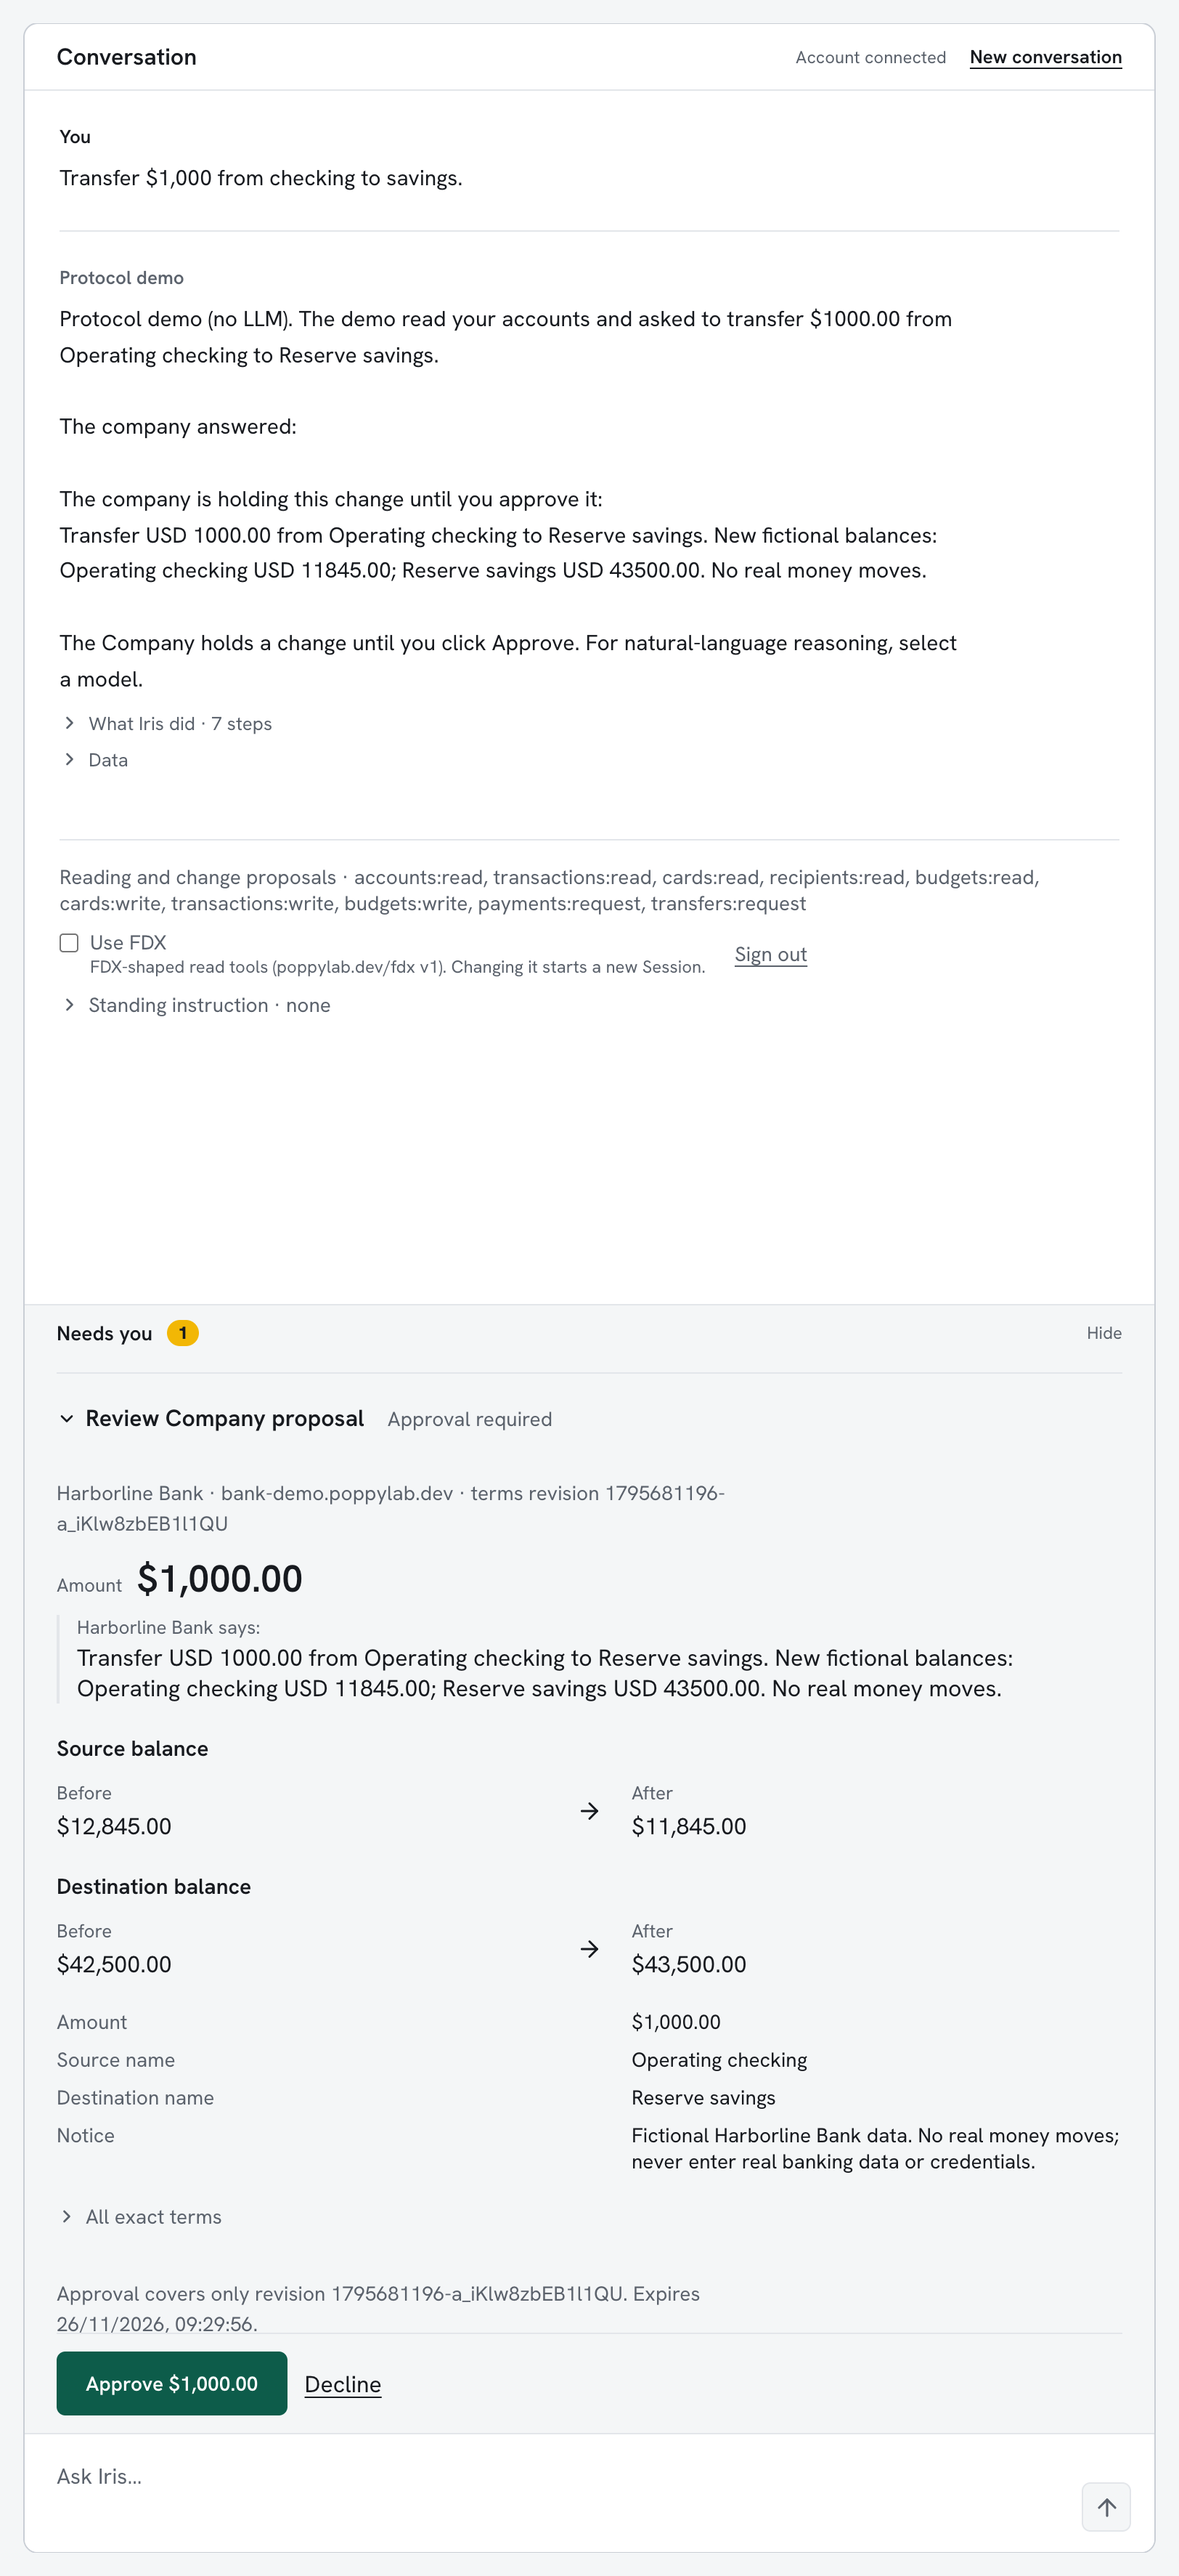
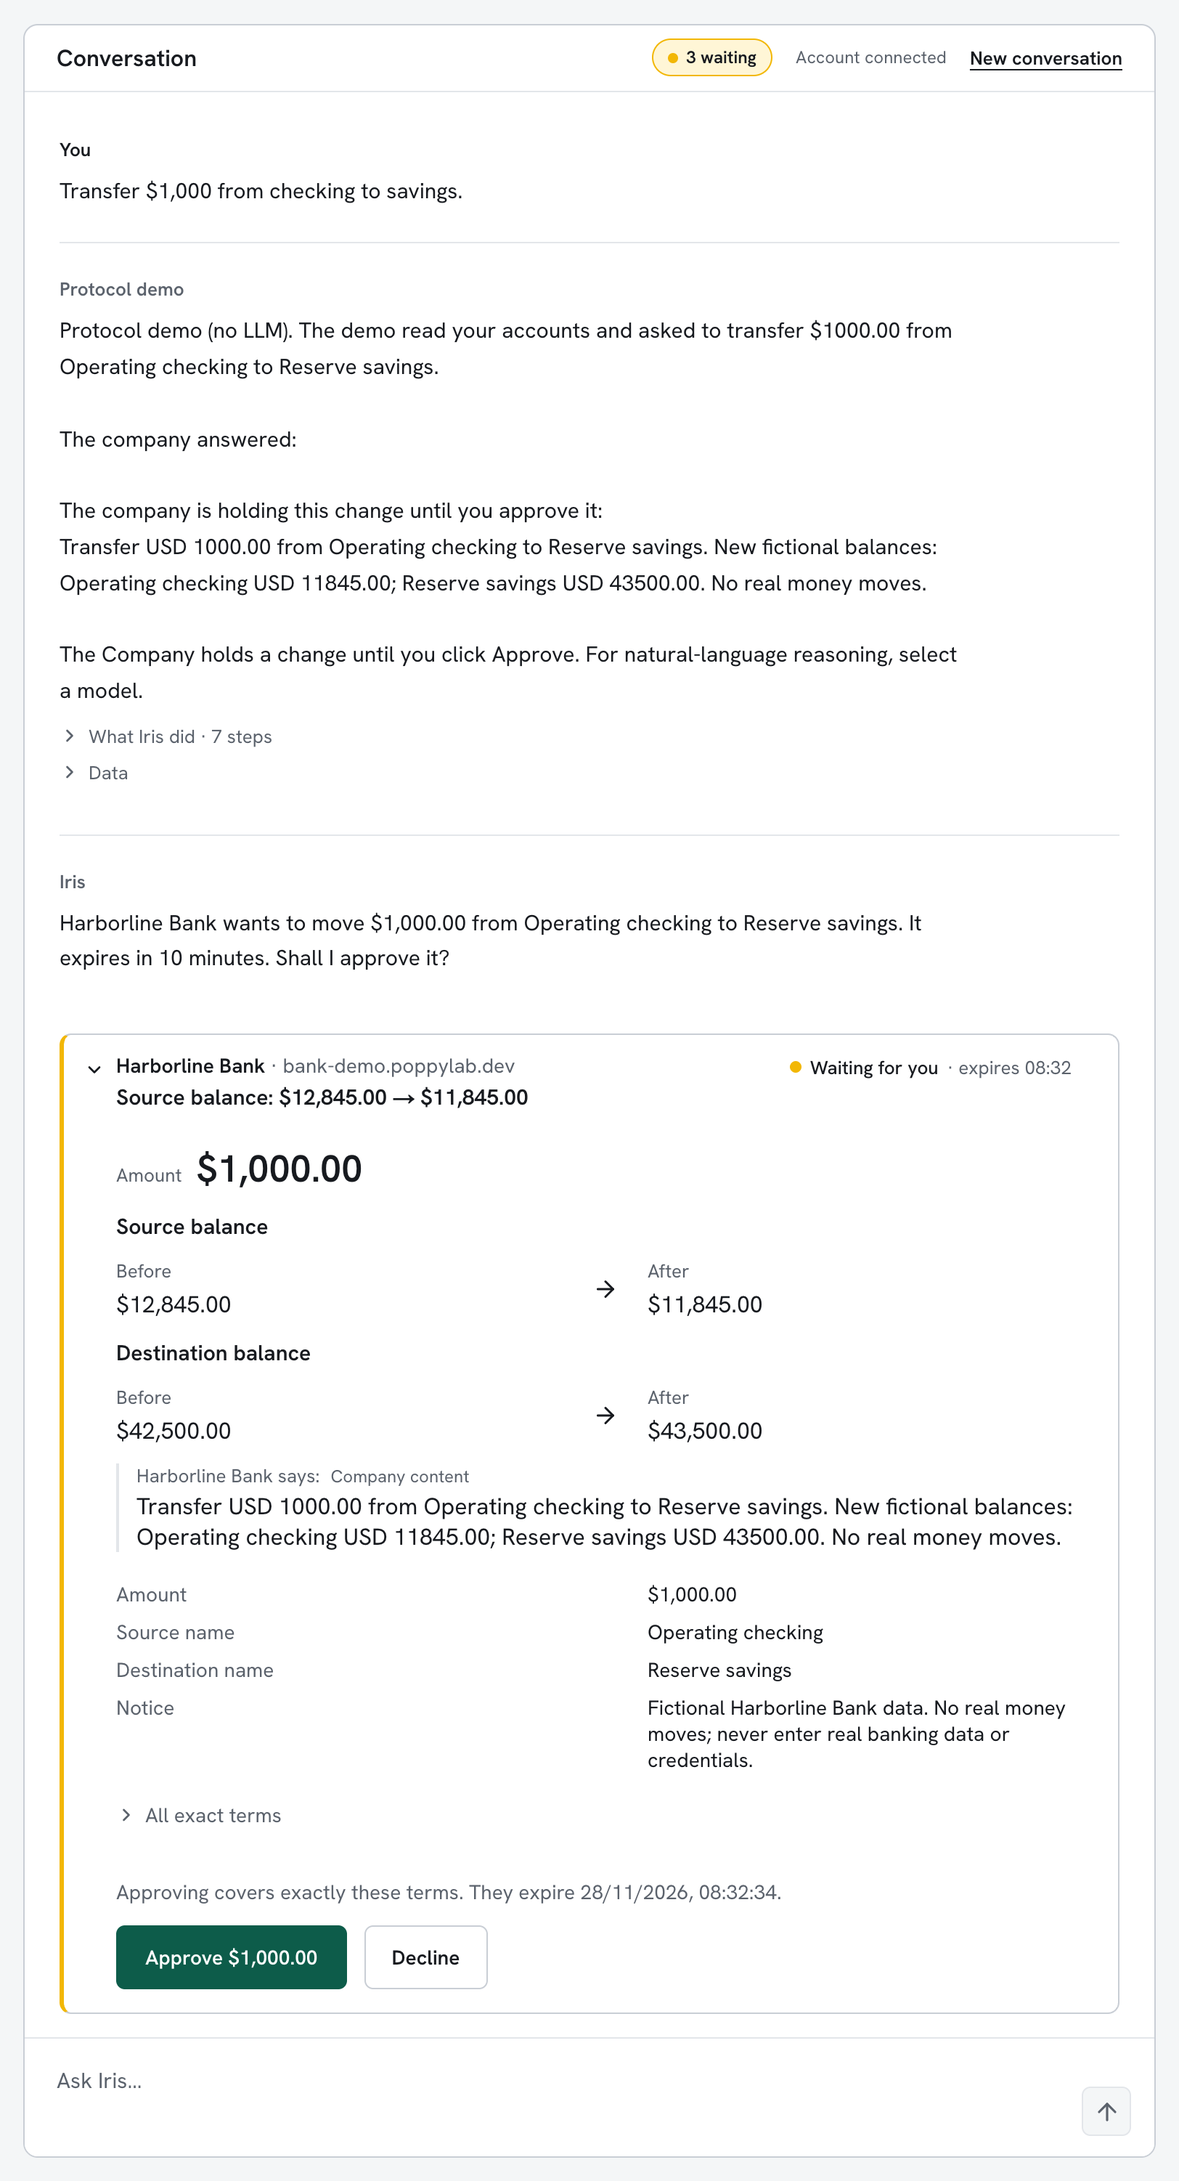
Show the proposal card and Iris's own voice in Moving money
Terms are a card where they arrived; Iris's questions, its confirmation, its which-one question with two proposals waiting, and the refusal it reports are quoted as the live lab writes them. Retaken on 28 November: 03, 04, 06, 08, 10, 11. The website images 01, 02 and 05 were compared and are unchanged; 07 and 09 were not compared.

diff --git a/docs/learn/how-it-works/moving-money.md b/docs/learn/how-it-works/moving-money.md
@@ -8,8 +8,8 @@ approved them. Later she asks for a payment her balance does not cover, and
 Harborline refuses it.
 
 This page follows those three requests screen by screen, on Iris's side and on
-Harborline's. Every screenshot is from the live lab, taken on
-26 November 2026. Harborline is fictional, and no real money exists or moves.
+Harborline's. Every screenshot is from the live lab at
+[poppylab.dev](https://poppylab.dev), taken on 26 and 28 November 2026. Harborline is fictional, and no real money exists or moves.
 
 ## Who does what
 
@@ -68,7 +68,7 @@ payments:request  transfers:request
 
 ### 3. Ask for the transfer
 
-![Iris has asked Harborline for the transfer, and a panel titled Needs you shows the amount, each balance before and after, and a button: Approve 1,000 dollars](../../../apps/playground/public/learn-media/how-it-works/moving-money/03-iris-proposes-the-transfer.webp "Harborline has moved nothing. It answered with terms that wait for Elena.")
+![Iris has asked Harborline for the transfer and asks whether to approve it. Below, a card from Harborline Bank reads Waiting for you, with the amount, each balance before and after, and a button: Approve 1,000 dollars](../../../apps/playground/public/learn-media/how-it-works/moving-money/03-iris-proposes-the-transfer.webp "Harborline has moved nothing. It answered with terms that wait for Elena.")
 
 Elena types "Transfer $1,000 from checking to savings." Iris reads her
 accounts, works out which two she means, and asks Harborline for that
@@ -76,10 +76,11 @@ transfer.
 
 Harborline does not make it. It answers that the transfer needs the customer's
 approval and sends back the terms it would apply, including the balance each
-account would have afterwards. Iris shows them in a panel called Needs you,
-with the amount first and each balance before and after. In the conversation
-Iris asks in its own words, from the terms: Harborline proposes a transfer of
-1,000 dollars from Operating checking to Reserve savings, approve it?
+account would have afterwards. Iris shows them as a card in the
+conversation, where the proposal arrived, with the amount first and each
+balance before and after. Iris asks in its own words, from the terms:
+"Harborline Bank wants to move $1,000.00 from Operating checking to Reserve
+savings. It expires in 10 minutes. Shall I approve it?"
 
 The lab runs here in demo mode, which answers its guided examples without an
 AI model, so the answer is the company's data set out as plain lines. With a model connected Iris would
@@ -129,14 +130,14 @@ Harborline's answer to the request, as Iris received it:
 
 ### 4. Read what you are approving
 
-![The approval panel: the amount in large type, each balance before and after, both accounts by name, under All exact terms the same facts as data, and at the foot the buttons Approve 1,000 dollars and Decline](../../../apps/playground/public/learn-media/how-it-works/moving-money/04-exact-terms.webp "The terms come from Harborline. Iris shows them and adds nothing of its own.")
+![The proposal card: the amount in large type, each balance before and after, both accounts by name, under All exact terms the same facts as data, and at the foot the buttons Approve 1,000 dollars and Decline](../../../apps/playground/public/learn-media/how-it-works/moving-money/04-exact-terms.webp "The terms come from Harborline. Iris shows them and adds nothing of its own.")
 
-The panel shows what Harborline will do if Elena approves, and it leads with
+The card shows what Harborline will do if Elena approves, and it leads with
 the amount. The paragraph that begins "Harborline Bank says" is the bank's own
 description, and the rows below it give each balance before and after and the
 two accounts by name. Harborline worked out the balances. Iris asked only for
-an amount and two accounts. The Approve and Decline buttons stay at the foot
-of the panel while the terms scroll above them.
+an amount and two accounts. The Approve and Decline buttons are at the foot
+of the card, under the terms.
 
 Under All exact terms are the same facts as data, with the amount in cents.
 The line called `idempotency_key` is a label Iris made up for this one
@@ -161,9 +162,9 @@ describes what a company checks when an approval arrives.
 
 ### 5. Nothing has moved yet
 
-![Harborline's website lists the transfer under Agent activity with the label Awaiting approval and the time until which it waits](../../../apps/playground/public/learn-media/how-it-works/moving-money/05-nothing-moved-yet.webp "While the panel waits in Iris, Harborline's website shows the request as a proposal.")
+![Harborline's website lists the transfer under Agent activity with the label Awaiting approval and the time until which it waits](../../../apps/playground/public/learn-media/how-it-works/moving-money/05-nothing-moved-yet.webp "While the card waits in Iris, Harborline's website shows the request as a proposal.")
 
-While the panel waits, Harborline's website lists the request under Agent
+While the card waits, Harborline's website lists the request under Agent
 activity as awaiting approval, and says until when it waits. The balances at
 the top of the same page are still 12,845 and 42,500 dollars.
 
@@ -180,7 +181,9 @@ Elena presses Approve $1,000.00, or answers "yes" to Iris's question. Iris
 sends Harborline the same request again, this time with her approval
 attached. Harborline checks that the
 approval matches the terms it offered, moves the money and confirms it. The
-entry in the conversation shows the bank's confirmation and who approved.
+card shows the bank's confirmation and who approved, and Iris says: "Done. You
+approved the $1,000.00 transfer at Harborline Bank, and Harborline Bank has
+carried it out."
 
 The approval is something only Elena gives: the button, or her own answer
 to the question Iris asked about these terms. Iris reads that answer by fixed
@@ -202,20 +205,22 @@ describes the header.
 ![Harborline's account page shows 11,845 dollars in checking, 43,500 dollars in savings, and the transfer in the recent transactions](../../../apps/playground/public/learn-media/how-it-works/moving-money/07-accounts-after.webp "The two balances Elena approved, on Harborline's website a few seconds later.")
 
 Harborline's website shows the accounts as they now stand: 11,845 dollars in
-checking and 43,500 dollars in savings, the two balances Elena read in the
-panel. The transfer appears twice in the recent transactions, once leaving
+checking and 43,500 dollars in savings, the two balances Elena read on the
+card. The transfer appears twice in the recent transactions, once leaving
 checking and once arriving in savings.
 
 ### 8. Ask for a payment
 
-![Iris has asked Harborline to send 125 dollars to Beacon Studio LLC, and the panel shows the amount, the balance before and after, the memo, the recipient and a fee of zero](../../../apps/playground/public/learn-media/how-it-works/moving-money/08-payment-proposed.webp "The terms of a payment name the recipient and repeat the memo in Elena's words.")
+![Iris has asked Harborline to send 125 dollars to Beacon Studio LLC and asks whether to approve it, and the card shows the amount, the balance before and after, the memo, the recipient and a fee of zero](../../../apps/playground/public/learn-media/how-it-works/moving-money/08-payment-proposed.webp "The terms of a payment name the recipient and repeat the memo in Elena's words.")
 
 Next Elena types "Send Beacon Studio $125 for the quarterly report." Iris
 reads her accounts and her saved recipients, finds Beacon Studio LLC among
 them, and asks Harborline for the payment from checking. Her words after
 "for" travel as the memo.
 
-Harborline answers with terms again, and the panel sets them out as rows: the
+Harborline answers with terms again, and Iris asks: "Harborline Bank wants
+to pay Beacon Studio LLC $125.00. It expires in 10 minutes. Shall I approve
+it?" The card sets the terms out as rows: the
 amount, the balance before and after, the memo, the recipient by name with the
 last four digits of its account, and a fee of zero. The balance that would
 remain is 11,720 dollars. Elena can check that the recipient and the memo are
@@ -272,7 +277,7 @@ the account's history, with the memo, and checking stands at 11,720 dollars.
 
 ### 10. When the bank says no
 
-![Elena asks to send Beacon Studio 4,500 dollars, and Iris shows an error: Harborline Bank answered insufficient funds, available balance 4,220 dollars, and nothing was retried](../../../apps/playground/public/learn-media/how-it-works/moving-money/10-bank-refuses.webp "Harborline refused the payment and gave its reason. Iris did not try again.")
+![Elena asks to send Beacon Studio 4,500 dollars, and Iris shows an error: Harborline Bank answered HTTP 409 insufficient_funds, available balance 4,220 dollars. I didn't retry anything; see the Inspector. Two buttons read Try again and Remove](../../../apps/playground/public/learn-media/how-it-works/moving-money/10-bank-refuses.webp "Harborline refused the payment and gave its reason. Iris did not try again.")
 
 By now Elena has paid Beacon Studio a larger invoice and moved more money to
 savings, and checking holds 4,220 dollars. She asks Iris to send Beacon
@@ -281,8 +286,9 @@ Studio 4,500 dollars.
 Harborline refuses. There are no terms to approve this time, because the bank
 does not offer a payment the account cannot cover. Iris shows the bank's
 answer as an error that names Harborline, its reason, `insufficient_funds`,
-and the balance that was available. It says that it did not try again, and
-nothing moved.
+and the balance that was available: "I didn't retry anything; see the
+Inspector." Nothing moved. Elena can try the request again herself, or remove
+the error.
 
 Harborline has limits of its own too. A payment of 6,000 dollars to Beacon
 Studio was refused with the reason `recipient_limit_exceeded` and that
@@ -303,12 +309,13 @@ POST /api/account/payments · refused by the Company · HTTP 409 insufficient_fu
 ```
 
 Harborline gave the same answer when Elena approved a payment of 4,000
-dollars after another transfer had left 3,220 dollars in checking. The
-proposal stayed in the panel, and under its terms the card carried the bank's
-answer:
+dollars after another transfer had left 3,220 dollars in checking. With the
+payment and the transfer both waiting, Iris had asked which one to approve,
+and Elena answered "approve the transfer", then "approve the payment". The
+proposal stayed waiting, and Iris said:
 
 ```text
-Harborline Bank refused this request (HTTP 409, insufficient_funds; available balance: $3,220.00). Nothing was performed.
+Harborline Bank refused this request (HTTP 409, insufficient_funds; available balance: $3,220.00). Nothing was performed. The terms still wait for you: approve them again once what stopped it is sorted out, or ask for the change again to get fresh terms.
 ```
 
 Step 11 shows Harborline's own record of that payment.
@@ -317,7 +324,7 @@ Step 11 shows Harborline's own record of that payment.
 
 ### 11. See what the agent did
 
-![Harborline's record of the agent's activity: a payment of 4,000 dollars awaiting approval, the same payment marked Not applied on 26 November at 08:32 UTC because checking had 3,220 dollars available, and a transfer of 1,000 dollars applied once, both approved by you in your agent](../../../apps/playground/public/learn-media/how-it-works/moving-money/11-agent-activity-at-harborline.webp "Harborline lists what the agent asked for, what became of each request and who approved it.")
+![Harborline's record of the agent's activity: a payment of 4,000 dollars awaiting approval, the same payment marked Not applied on 28 November at 07:28 UTC because checking had 3,220 dollars available, and a transfer of 1,000 dollars applied once, both approved by you in your agent](../../../apps/playground/public/learn-media/how-it-works/moving-money/11-agent-activity-at-harborline.webp "Harborline lists what the agent asked for, what became of each request and who approved it.")
 
 Lower on its account page, Harborline lists what Elena's agent asked for and
 what became of each request. A request it carried out is marked Applied once,
